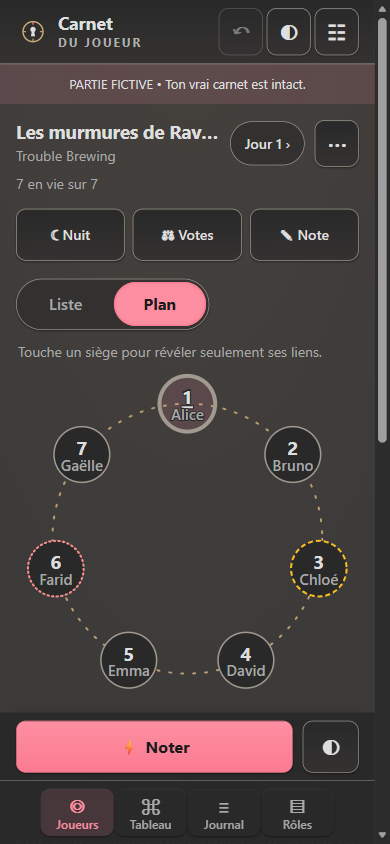
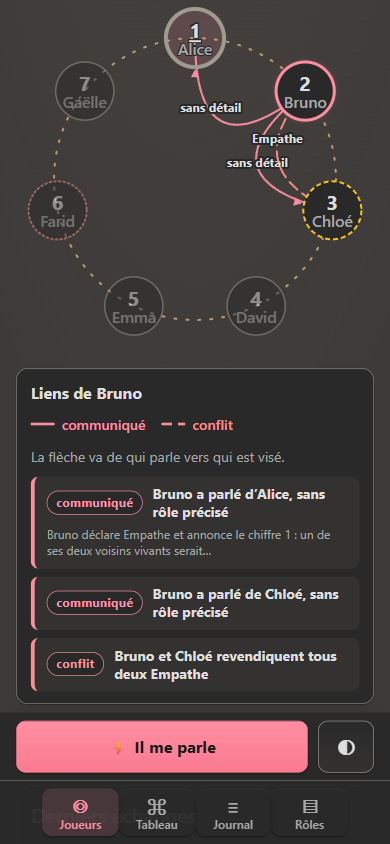
v2.5 : sections repliables visibles, accueil montrant l app, demo guidee, votes plus simples
Suite du retour de la testeuse. Mesure sur la 2.4 publiee.

- Toutes les sections repliables n avaient aucune fleche : summary{display:
  flex} supprimait le marqueur natif. 37 rencontrees, regle generale ajoutee.
  Trouver d autres scripts (v2.1) etait mon propre defaut.
- Accueil : vraie capture a la place du schema abstrait, slogans en capitales
  remplaces par trois phrases claires, hors ligne dit simplement. Captures du
  manifeste refaites, welcome-table.png ajoutee au cache hors ligne.
- Demo : trois pistes a essayer, verifiees de bout en bout (Conflits montre
  bien l Empathe de Bruno et Chloe). Rejeter l aide de la demo ne touche pas
  celle de la vraie partie.
- Votes : Resultat du vote, options sans vocabulaire administratif, paragraphe
  de regle 4 lignes -> 2, total annonce et votes fantomes dans Autres options.
  La case qui marque le joueur mort reste visible. Nomination au vocabulaire.
- Tableau et Journal : verifie sur un carnet reel que chaque note apparait
  dans les deux, donc memes enregistrements. Rien fusionne. Titre Mon carnet
  -> Journal (aligne sur l onglet) et une ligne dit a quoi sert chaque ecran.
- Quatre cadratins dans des textes visibles corriges.

202 tests natifs, 11 sondes navigateur vertes (browser-firstrun 37 -> 59).

diff --git a/js/app.js b/js/app.js
@@ -196,15 +196,15 @@ function renderWelcome() {
     <section class="hero">
       <div><div class="eyebrow">${tr('Blood on the Clocktower • Compagnon non officiel','Blood on the Clocktower • Unofficial companion')}</div>
       <h1>${tr('Tout le monde<br>a une version.','Everyone has<br>a story.')}<br><span style="color:var(--cp-accent)">${tr('Garde le fil.','Keep the thread.')}</span></h1>
-      <p>${tr('Les confidences, les indices, tes intuitions. Un carnet privé qui relie les pièces sans jouer à ta place.','Claims, clues, your hunches. A private notebook that connects the pieces without playing for you.')}</p>
+      <p>${tr('Pendant une partie, note vite ce que chaque joueur te dit et retrouve tout d’un coup d’œil. Un carnet privé, qui ne joue pas à ta place.','During a game, quickly note what each player tells you and find it all at a glance. A private notebook that does not play for you.')}</p>
       <div class="row">${button('new',tr('Ouvrir mon carnet','Start my notebook'),'primary')}${button('demo',tr('Explorer une démo','Explore a demo'))}${button('onboarding',tr('Comment ça marche','How it works'))}</div>
-      <p class="footer-note">${tr('Sans compte. Sans connexion au Conteur. Utilisable hors ligne après installation du cache.','No account. No connection to the Storyteller. Works offline once cached.')}</p></div>
-      <div class="hero-art" aria-hidden="true"><div class="hero-center"><strong>?</strong><span>${tr('plusieurs vérités<br>possibles','many possible<br>truths')}</span></div>${[[50,0,'A'],[93,25,'?'],[93,75,'B'],[50,100,'◇'],[7,75,'C'],[7,25,'!']].map(([x,y,t])=>`<span class="orbit" style="left:${x}%;top:${y}%">${t}</span>`).join('')}</div>
+      <p class="footer-note">${tr('Sans compte, sans connexion au Conteur. Une fois ouvert en ligne, il fonctionne aussi sans réseau.','No account, no connection to the Storyteller. Once opened online, it also works without a network.')}</p></div>
+      <figure class="hero-shot"><img src="./assets/welcome-table.png" width="390" height="560" alt="${tr('Aperçu du carnet : la liste de sept joueurs, avec pour chacun trois boutons nommés Parle, Rôle et Mort.','Preview of the notebook: a list of seven players, each with three buttons named Talks, Role and Dead.')}" decoding="async"></figure>
     </section>
     <div class="features">
-      <section class="card"><span class="feature-number">01 / ${tr('CAPTURER','CAPTURE')}</span><h2>${tr('Une confidence, trois gestes.','A claim, three taps.')}</h2><p class="muted">${tr('Un joueur, un rôle, enregistrer. Les déclarations multiples et les changements restent dans l’historique.','A player, a character, save. Multiple claims and changes stay in your history.')}</p></section>
-      <section class="card"><span class="feature-number">02 / ${tr('RECOUPER','CONNECT')}</span><h2>${tr('Séparer le dit du déduit.','Separate words from deductions.')}</h2><p class="muted">${tr('Ce qui a été annoncé n’est pas ce qui est vrai. Le tableau d’enquête relie tes notes entre elles, sans jamais conclure à ta place.','What was said is not necessarily true. The investigation board connects your notes without ever concluding for you.')}</p></section>
-      <section class="card"><span class="feature-number">03 / ${tr('SE SOUVENIR','REMEMBER')}</span><h2>${tr('Ce que toi tu as dit.','What you said yourself.')}</h2><p class="muted">${tr('Note tes propres annonces, à qui et quand, et garde les informations différées nuit après nuit. Le carnet ne joue pas à ta place et ne rend aucun verdict.','Record your own claims, to whom and when, and keep delayed information night after night. The notebook never plays for you and never rules on anything.')}</p></section>
+      <section class="card"><h2>${tr('Note ce qu’on te dit','Note what you are told')}</h2><p class="muted">${tr('Touche ⚡ sur un joueur et écris ses mots, même incomplets. Chaque rôle qu’il annonce est gardé, avec ses changements.','Tap ⚡ on a player and write their words, even incomplete. Every character they claim is kept, with its changes.')}</p></section>
+      <section class="card"><h2>${tr('Vois qui dit quoi','See who said what')}</h2><p class="muted">${tr('Le Tableau relie tes notes par joueur et par jour, et signale deux joueurs qui annoncent le même rôle. Ce qui est annoncé n’est pas forcément vrai : le carnet ne conclut jamais à ta place.','The Board links your notes by player and by day, and flags two players who claim the same character. What is claimed is not necessarily true: the notebook never concludes for you.')}</p></section>
+      <section class="card"><h2>${tr('Retiens ce que tu as dit toi-même','Remember what you said yourself')}</h2><p class="muted">${tr('Note tes propres annonces, à qui et quand, pour rester cohérent d’une nuit à l’autre.','Record your own claims, to whom and when, to stay consistent from one night to the next.')}</p></section>
     </div>
     <p class="footer-note">Sébastien Place / @sebplace • <a href="./guide.html">${tr('Guide et limites','Guide and limitations')}</a> • CC BY-NC-SA 4.0 • ${tr('À utiliser avec l’accord de la table.','Use with your table’s agreement.')}</p>`;
 }
@@ -289,7 +289,7 @@ function timeline(entries,mini=false) {
   return entries.map(e=>`<article class="timeline-item"><div class="row"><small>${esc(phaseName(e))} · ${tr(...labels[e.type])}</small>${!mini?button('delete-event','×','icon-button',`data-id="${e.id}" aria-label="${tr('Supprimer cette entrée','Delete this entry')}"`):''}</div><h3>${e.playerIds.length?esc(e.playerIds.map(pname).join(' / ')):esc(game.title)}</h3>${e.sourceId?`<small>${tr('Source','Source')} : ${esc(pname(e.sourceId))}</small>`:''}<p>${esc(e.text)}</p>${e.roleId?`<span class="chip">${esc(rname(e.roleId))}</span>`:''}${e.value&&e.type!=='claim'?` <span class="chip accent">${esc(e.value)}</span>`:''}${!mini?eventDetails(e):''}</article>`).join('');
 }
 function renderJournal() {
-  $('#main').innerHTML=`<div class="section-head"><div><h1>${tr('Mon carnet','My notebook')}</h1></div>${button('note',tr('＋ Note','＋ Note'),'primary')}</div>
+  $('#main').innerHTML=`<div class="section-head"><div><h1>${tr('Journal','Journal')}</h1><p class="muted page-lede">${tr('Tes notes dans l’ordre, à relire ou corriger.','Your notes in order, to reread or correct.')}</p></div>${button('note',tr('＋ Note','＋ Note'),'primary')}</div>
     <div class="filters">${['', 'claim','info','vote','execution','night','note'].map((v,i)=>button('journal-filter',[tr('Tout','All'),tr('Déclarations','Claims'),tr('Indices','Clues'),tr('Votes','Votes'),tr('Exécutions','Executions'),tr('Nuits','Nights'),tr('Notes','Notes')][i],noteType===v?'selected':'',`data-type="${v}"`)).join('')}</div>
     <label class="search">${tr('Rechercher dans le carnet','Search notebook')}<input id="note-search" type="search" value="${esc(noteSearch)}" placeholder="${tr('Joueur, rôle, mot-clé…','Player, character, keyword…')}"></label><div class="grid"><section class="card" aria-labelledby="journal-entries-title"><h2 id="journal-entries-title" class="sr-only">${tr('Toutes les entrées du carnet','All notebook entries')}</h2><div id="journal-entries"></div></section><aside class="card"><h2>${tr('Pistes à recouper','Threads to cross-check')}</h2>${issues()}<div class="notice">${tr('Deux personnes peuvent honnêtement croire au même rôle. Une contradiction suggère une question, pas un menteur certain.','Two people can honestly believe they are the same character. A contradiction suggests a question, not a proven liar.')}</div></aside></div>`;
   drawJournal();$('#note-search').oninput=e=>{noteSearch=e.target.value;drawJournal();};
@@ -302,7 +302,7 @@ function impactLabel(r) {
   return r.impact==='weight'?tr(`Poids subjectif ×${r.multiplier}`,`Subjective weight ×${r.multiplier}`):r.impact==='strict'?tr('Restriction choisie','Chosen restriction'):r.impact==='conditional'?tr('Filtre sous conditions','Conditional filter'):tr('Noté, non utilisé par le calcul','Recorded, not used by calculation');
 }
 function renderOverview() {
-  $('#main').innerHTML=`<div class="section-head"><div><h1>${tr('Le tableau','The board')}</h1></div></div>
+  $('#main').innerHTML=`<div class="section-head"><div><h1>${tr('Le tableau','The board')}</h1><p class="muted page-lede">${tr('Les mêmes notes, reliées entre elles.','The same notes, connected to each other.')}</p></div></div>
     
     <div id="board-root"></div>
     ${unlocked()?`<section class="card spaced"><h2>${tr('Ce que le calcul en déduit','What the calculation infers')}</h2><div id="overview-estimates" aria-live="polite">${predictionSummary()}</div></section>`:''}`;
@@ -671,7 +671,7 @@ function roundSummary() {
   const ghosts=game.players.filter(p=>!p.alive&&p.ghost);
   const threshold=Math.ceil(alive.length/2);
   return `<div class="stats"><div class="stat"><strong>${alive.length}</strong>${tr('en vie','alive')}</div><div class="stat"><strong>${ghosts.length}</strong>${tr('votes fantômes restants','ghost votes left')}</div><div class="stat"><strong>${threshold}</strong>${tr('voix, seuil usuel','usual threshold')}</div></div>
-    <p class="muted small">${tr('Seuil indicatif : la moitié de tous les joueurs vivants, Voyageurs compris, arrondie au supérieur. Les capacités spéciales et les annonces du Conteur peuvent le changer.','Indicative threshold: half of all living players, Travellers included, rounded up. Special abilities and Storyteller announcements can change it.')}</p>`;
+    <p class="muted small">${tr('Seuil indicatif : la moitié des joueurs vivants (Voyageurs compris), arrondie au supérieur. Le Conteur peut le modifier.','Indicative threshold: half of the living players (Travellers included), rounded up. The Storyteller can change it.')}</p>`;
 }
 function openEndgame() {
   const ordinary=normalPlayers();
@@ -788,6 +788,7 @@ function openGlossary() {
       [tr('Script','Script'),tr('La liste des rôles qui peuvent apparaître dans cette partie. Ce n’est pas la liste des rôles distribués.','The list of characters that may appear in this game. It is not the list of characters actually dealt.')],
       [tr('Déclaration','Claim'),tr('Un rôle annoncé par un joueur, tel que tu l’as noté. Le Journal les range sous ce nom.','A character announced by a player, as you noted it. The Journal files them under this name.')],
       [tr('Indice','Clue'),tr('Une information reçue : un chiffre, un nom, une phrase. Ce que tu notes avec ⚡ devient un indice, ou une déclaration si tu y ajoutes un rôle.','A piece of information received: a number, a name, a sentence. What you note with ⚡ becomes a clue, or a claim if you add a character.')],
+      [tr('Nomination','Nomination'),tr('Un joueur en désigne un autre pour le soumettre au vote. Le bouton Votes sert à noter qui a nommé qui.','A player picks another to put to a vote. The Votes button records who nominated whom.')],
       [tr('Exécution','Execution'),tr('Le vote de fin de journée qui peut éliminer un joueur. Le bouton Votes sert à le noter.','The end-of-day vote that can eliminate a player. The Votes button records it.')],
       [tr('Nuit','Night'),tr('Le bouton Nuit sert à noter les morts annoncées au matin.','The Night button records the deaths announced in the morning.')],
       [tr('Jour 1 ›','Day 1 ›'),tr('Le moment de la partie. Touche-le pour passer au jour ou à la nuit suivants.','The current moment of the game. Tap it to move to the next day or night.')]
@@ -801,8 +802,23 @@ function openGlossary() {
     ])}`);
 }
 function firstStepsSeen(){try{return localStorage.getItem('botc-player-first-steps')==='1';}catch{return true;}}
-// Aide posée sur la table elle-même, au lieu d'une fenetre qui decrit un ecran qu'on n'a pas encore vu.
+let demoHintHidden=false;
+// Dans la démo, l'aide propose quoi essayer plutôt que d'expliquer des boutons : le visiteur arrive
+// dans un carnet déjà rempli et ne sait pas par où commencer. Son rejet ne compte pas pour la vraie partie.
+function demoTryHtml(){
+  if(demoHintHidden)return '';
+  return `<section class="first-steps" aria-labelledby="first-steps-title">
+    <div class="first-steps-head"><h2 id="first-steps-title">${tr('À essayer dans cette partie fictive','Try this in the sample game')}</h2>${button('first-steps-done',tr('Compris','Got it'),'ghost')}</div>
+    <ul class="try-list">
+      <li>${tr('Touche la ligne de Bruno pour voir tout ce que tu sais de lui.','Tap Bruno’s row to see everything you know about them.')}</li>
+      <li>${tr('Ouvre « Tableau », puis « Analyses » et « Conflits » : Bruno et Chloé annoncent tous deux Empathe.','Open “Board”, then “Analysis” and “Conflicts”: Bruno and Chloé both claim Empath.')}</li>
+      <li>${tr('Touche « Plan », puis le siège de Bruno : ses liens apparaissent.','Tap “Plan”, then Bruno’s seat: their links appear.')}</li>
+    </ul>
+  </section>`;
+}
+// Aide posée sur la table elle-même, au lieu d'une fenêtre qui décrit un écran qu'on n'a pas encore vu.
 function firstStepsHtml(){
+  if(demo)return demoTryHtml();
   if(firstStepsSeen())return '';
   return `<section class="first-steps" aria-labelledby="first-steps-title">
     <div class="first-steps-head"><h2 id="first-steps-title">${tr('Premiers pas','First steps')}</h2>${button('first-steps-done',tr('J’ai compris','Got it'),'ghost')}</div>
@@ -837,12 +853,12 @@ function openMyNotes() {
     <h3>${tr('Ce que j’ai dit','What I said')}</h3>
     <div class="row">${button('self-add',tr('＋ J’ai dit quelque chose','＋ I said something'),'primary')}</div>
     ${game.selfLog.length?game.selfLog.slice().reverse().map(entry=>`<div class="issue"><small>${esc(phaseName(entry))} · ${entry.status==='public'?tr('public','public'):entry.status==='told'?tr('confié','told'):tr('gardé pour moi','kept')}</small><p><strong>${esc(audienceLabel(entry.audience))}</strong></p>${entry.roleIds.length?`<p>${tr('Rôle annoncé','Claimed character')} : ${esc(roleLabel(entry.roleIds))}</p>`:''}<p class="muted">${esc(entry.text)}</p>${button('self-delete',tr('Retirer','Remove'),'',`data-id="${entry.id}"`)}</div>`).join(''):`<p class="empty">${tr('Rien de noté. Dès que tu annonces un rôle ou donnes une info, note-le ici pour rester cohérent.','Nothing recorded. As soon as you claim a character or give information, note it here to stay consistent.')}</p>`}
-    ${Object.keys(known).length?`<details><summary>${tr('Qui sait quoi','Who knows what')}</summary>${Object.entries(known).map(([pid,items])=>`<p><strong>${esc(pname(pid))}</strong> : ${esc(items.map(i=>[roleLabel(i.roleIds||[]),i.text].filter(Boolean).join(' — ')).join(' · '))}</p>`).join('')}</details>`:''}
+    ${Object.keys(known).length?`<details><summary>${tr('Qui sait quoi','Who knows what')}</summary>${Object.entries(known).map(([pid,items])=>`<p><strong>${esc(pname(pid))}</strong> : ${esc(items.map(i=>[roleLabel(i.roleIds||[]),i.text].filter(Boolean).join(' : ')).join(' · '))}</p>`).join('')}</details>`:''}
     <h3>${tr('À retenir nuit après nuit','To remember night after night')}</h3>
     <p class="muted">${tr('Pour les rôles dont l’information arrive plus tard : Crieur public, Fleuriste, Érudit, Commère, Jongleur, Amnésique…','For characters whose information arrives later: Town Crier, Flowergirl, Savant, Gossip, Juggler, Amnesiac…')}</p>
     <div class="row">${button('retain-add',tr('＋ Noter une info à retenir','＋ Record something to remember'),'primary')}</div>
     ${series.length?series.map(s=>`<div class="issue"><strong>${esc(s.roleName||s.label||'')}</strong><p>${esc(s.series||s.text||'')}</p></div>`).join(''):''}
-    ${game.retained.length?game.retained.slice().reverse().map(r=>`<div class="issue"><small>${tr('Nuit','Night')} ${r.night}${r.roleId?' · '+esc(rname(r.roleId)):''}${r.shared?' · '+tr('partagée','shared'):''}</small><p>${esc([r.value,r.text].filter(Boolean).join(' — '))}</p>${button('retain-delete',tr('Retirer','Remove'),'',`data-id="${r.id}"`)}</div>`).join(''):`<p class="empty">${tr('Rien à retenir pour l’instant.','Nothing to remember yet.')}</p>`}`);
+    ${game.retained.length?game.retained.slice().reverse().map(r=>`<div class="issue"><small>${tr('Nuit','Night')} ${r.night}${r.roleId?' · '+esc(rname(r.roleId)):''}${r.shared?' · '+tr('partagée','shared'):''}</small><p>${esc([r.value,r.text].filter(Boolean).join(' : '))}</p>${button('retain-delete',tr('Retirer','Remove'),'',`data-id="${r.id}"`)}</div>`).join(''):`<p class="empty">${tr('Rien à retenir pour l’instant.','Nothing to remember yet.')}</p>`}`);
 }
 function openSelfEntry() {
   open(tr('J’ai dit quelque chose','I said something'),`<form id="self-form">
@@ -934,16 +950,17 @@ function openRound(target='',existing=null,defaultOutcome='unknown') {
     ${roundSummary()}
     <div class="form-grid"><label>${tr('Jour n°','Day number')}<input name="day" type="number" min="1" max="99" value="${existing?.day||game.day}" required></label><label>${tr('Qui a nommé ?','Who nominated?')}<select name="source">${playerOptions(existing?.sourceId||'')}</select></label></div>
     <label>${tr('Personne nommée / exécutée','Nominated / executed player')}<select name="target">${playerOptions(existing?.playerIds[0]||target)}</select></label>
-    <label>${tr('Issue observée','Observed outcome')}<select name="outcome">${[['none','Pas d’exécution, vote seulement','No execution, vote only'],['unknown','Exécution, décès non confirmé','Execution, death unconfirmed'],['survived','Exécuté mais a survécu','Executed but survived'],['died','Exécuté et décès constaté','Executed and observed dead']].map(([value,fr,en])=>`<option value="${value}" ${(existing?(existing.type==='execution'?existing.outcome:'none'):defaultOutcome)===value?'selected':''}>${tr(fr,en)}</option>`).join('')}</select></label>
+    <label>${tr('Résultat du vote','Vote result')}<select name="outcome">${[['none','Pas d’exécution, vote seulement','No execution, vote only'],['unknown','Exécuté, mort pas encore confirmée','Executed, death not yet confirmed'],['survived','Exécuté mais toujours en vie','Executed but still alive'],['died','Exécuté et mort constatée','Executed and observed dead']].map(([value,fr,en])=>`<option value="${value}" ${(existing?(existing.type==='execution'?existing.outcome:'none'):defaultOutcome)===value?'selected':''}>${tr(fr,en)}</option>`).join('')}</select></label>
     <div class="ballot-quick" role="group" aria-label="${tr('Pointage rapide des mains levées','Quick tally of raised hands')}"><p class="muted small">${tr('Un tap par main levée. Le reste est facultatif.','One tap per raised hand. The rest is optional.')}</p><div class="ballot-chips">${ballotPlayers.filter(p=>p.alive||existing?.ballot?.some(v=>v.playerId===p.id)).map(p=>{const v=existing?.ballot?.find(v=>v.playerId===p.id);return `<button type="button" class="ballot-chip" data-quickvote="${p.id}" aria-pressed="${v?.choice==='yes'}">${esc(p.name)}${p.alive?'':' ◇'}</button>`;}).join('')}</div><p id="ballot-summary" class="notice" role="status"></p></div>
     <details><summary>${tr('Détail des votes (facultatif)','Vote detail (optional)')}</summary><p class="muted">${tr('? signifie non noté, pas non. Indique les voix spéciales si elles sont connues.','? means not recorded, not no. Enter special vote weights if known.')}</p>
     <div class="row ballot-bulk">${button('ballot-all',tr('Tous « non »','All "no"'),'','data-choice="no"')}${button('ballot-all',tr('Tous « ? »','All "?"'),'','data-choice="unknown"')}</div>
     <div class="ballot-list">${ballotPlayers.map(p=>{const v=existing?.ballot?.find(v=>v.playerId===p.id);const choice=v?.choice||'unknown';const weight=v?.choice==='yes'?v.weight:1;return `<div class="ballot-row" data-voter="${p.id}" data-choice="${choice}" data-weight="${weight}"><span>${esc(p.name)}</span><div class="ballot-choice" role="group" aria-label="${esc(tr('Vote de ','Vote by ')+p.name)}">${[['yes',tr('Oui','Yes')],['no',tr('Non','No')],['unknown','?']].map(([value,label])=>`<button type="button" data-vote="${value}" aria-pressed="${choice===value}">${label}</button>`).join('')}</div><input data-voteweight type="number" min="-9" max="9" value="${weight}" aria-label="${esc(tr('Voix de ','Vote weight for ')+p.name)}" ${choice==='yes'?'':'hidden'}></div>`;}).join('')}</div></details>
-    <label>${tr('Total annoncé par le Conteur (facultatif)','Total announced by Storyteller (optional)')}<input name="value" type="number" min="-999" max="999" value="${esc(existing?.value||'')}"></label>
-    <label class="check"><input name="applyState" type="checkbox" ${existing?'':'checked'}>${tr('Si le décès est confirmé, marquer cette personne morte maintenant','If death is confirmed, mark this player dead now')}</label>
-    <label class="check"><input name="applyGhost" type="checkbox">${tr('Reporter les votes des morts comme votes fantômes utilisés','Mark votes by currently dead players as used ghost votes')}</label>
+    <label class="check"><input name="applyState" type="checkbox" ${existing?'':'checked'}>${tr('Si la mort est confirmée, marquer cette personne morte maintenant','If death is confirmed, mark this player dead now')}</label>
     <label>${tr('Note','Note')}<textarea name="text" maxlength="4000">${esc(existing?.text||'')}</textarea></label>
-    <p class="muted">${tr('Une correction du relevé ne ressuscite personne et ne rend aucun vote automatiquement. Les états actuels se corrigent dans les fiches. Les votes ne prouvent pas l’alignement.','Editing the record does not automatically revive anyone or restore votes. Edit current states in player cards. Votes do not prove alignment.')}</p>
+    <details ${existing?.value?'open':''}><summary>${tr('Autres options','More options')}</summary>
+    <label>${tr('Total annoncé par le Conteur (facultatif)','Total announced by Storyteller (optional)')}<input name="value" type="number" min="-999" max="999" value="${esc(existing?.value||'')}"></label>
+    <label class="check"><input name="applyGhost" type="checkbox">${tr('Reporter les votes des morts comme votes fantômes utilisés','Mark votes by currently dead players as used ghost votes')}</label>
+    <p class="muted">${tr('Corriger ce relevé ne ressuscite personne et ne rend aucun vote automatiquement. Les états actuels se corrigent dans les fiches. Les votes ne prouvent pas l’alignement.','Editing the record does not automatically revive anyone or restore votes. Edit current states in player cards. Votes do not prove alignment.')}</p></details>
     <div class="dialog-footer"><button type="submit" class="primary">${tr('Enregistrer le relevé','Save record')}</button></div></form>`,d=>{
       const readBallot=()=>$$('[data-voter]',d).map(row=>{const choice=row.dataset.choice;return{playerId:row.dataset.voter,choice,weight:choice==='unknown'?null:choice==='no'?0:Number(row.dataset.weight||1)};});
       const paint=row=>{
@@ -1113,7 +1130,7 @@ function openSettings() {
     <h3>${tr('Sur cet appareil','On this device')}</h3><div class="quick-actions">${game?button('export',tr('Exporter mon carnet privé (.json)','Export my private notebook (.json)')):''}${button('restore',tr('Restaurer un carnet (.json)','Restore a notebook (.json)'))}${button('backup',tr('Copies de secours et stockage','Backups and storage'))}${button('new',tr('Nouvelle partie','New game'))}${demo?button('leave-demo',tr('Quitter la démo','Leave demo')):button('demo',tr('Ouvrir la démo sans toucher au carnet','Open demo without touching notebook'))}</div>
     <h3>${tr('Installation et hors-ligne','Install and offline')}</h3><p id="offline-status" class="muted">${offlineText()}</p>${deferredInstall?button('install',tr('Installer l’application','Install app'),'primary'):''}${updateReady?button('apply-update',tr('Mettre à jour maintenant','Update now'),'primary'):''}${button('force-update',tr('Forcer la mise à jour (vider le cache)','Force update (clear cache)'))}<p class="muted">${tr('Sur iPhone : Safari → Partager → Sur l’écran d’accueil. Sur ordinateur / Android : menu du navigateur → Installer. Une première ouverture connectée est nécessaire.','On iPhone: Safari → Share → Add to Home Screen. Desktop / Android: browser menu → Install. A first online visit is required.')}</p>
     <p class="notice">${tr('Aucune donnée envoyée au Conteur ni à un service IA. Le stockage navigateur n’est pas chiffré par l’application ; le rideau masque l’écran mais ne verrouille pas l’appareil. Un export contient tes notes secrètes.','No data is sent to the Storyteller or an AI service. Browser storage is not encrypted by the app; the cover hides the screen but does not lock the device. Exports contain your secret notes.')}</p>
-    <p><a href="./guide.html" target="_blank" rel="noopener">${tr('Guide d’utilisation et limites','User guide and limitations')}</a></p><p class="footer-note"><span id="app-version">Carnet du Joueur 2.4</span> • Sébastien Place / @sebplace<br>CC BY-NC-SA 4.0 · ${tr('Indépendant de The Pandemonium Institute.','Independent of The Pandemonium Institute.')}</p>`,d=>{
+    <p><a href="./guide.html" target="_blank" rel="noopener">${tr('Guide d’utilisation et limites','User guide and limitations')}</a></p><p class="footer-note"><span id="app-version">Carnet du Joueur 2.5</span> • Sébastien Place / @sebplace<br>CC BY-NC-SA 4.0 · ${tr('Indépendant de The Pandemonium Institute.','Independent of The Pandemonium Institute.')}</p>`,d=>{
     $('#language',d).onchange=e=>{lang=e.target.value;savePrefs();render();openSettings();};
     $('#theme',d).onchange=e=>{document.documentElement.dataset.theme=e.target.value;savePrefs();};
     $('#enrichment',d)?.addEventListener('change',e=>{try{change(g=>{g.settings.claimRoleEnrichment=e.target.checked;});}catch(err){error(err.message);}});
@@ -1204,7 +1221,7 @@ const actions={
   roster:openRoster,coverage:openCoverage,
   mask:()=>cover(true),express:el=>openExpress(el.dataset.id||''),
   mynotes:openMyNotes,'self-add':openSelfEntry,'retain-add':openRetainEntry,endgame:openEndgame,'table-card':openTableCard,onboarding:openOnboarding,glossary:openGlossary,
-  'first-steps-done':el=>{try{localStorage.setItem('botc-player-first-steps','1');}catch{}el.closest('.first-steps')?.remove();$('#main')?.focus({preventScroll:true});},
+  'first-steps-done':el=>{if(demo)demoHintHidden=true;else{try{localStorage.setItem('botc-player-first-steps','1');}catch{}}el.closest('.first-steps')?.remove();$('#main')?.focus({preventScroll:true});},
   'self-delete':el=>change(g=>{g.selfLog=g.selfLog.filter(x=>x.id!==el.dataset.id);})||openMyNotes(),
   'retain-delete':el=>change(g=>{g.retained=g.retained.filter(x=>x.id!==el.dataset.id);})||openMyNotes(),
   'print-sheet':openPrintSheet,
@@ -1235,7 +1252,7 @@ const actions={
   export:()=>{download(`carnet-joueur-${game.id.slice(0,8)}.json`,JSON.stringify(validateGame(game),null,2));toast(tr('Export privé téléchargé','Private export downloaded'));},
   restore:openRestore,backup:openBackups,'apply-update':applyUpdate,
   'force-update':()=>confirmAction(tr('Forcer la mise à jour ?','Force update?'),tr('Le cache hors-ligne sera vidé et la page rechargée. Tes carnets enregistrés ne sont pas touchés. Il faudra être connecté une fois pour reconstruire le cache.','The offline cache is cleared and the page reloads. Your saved notebooks are untouched. You will need to be online once to rebuild the cache.'),forceUpdate),
-  'restore-backup':el=>{const b=store.backup(Number(el.dataset.slot));confirmAction(tr('Reprendre cette copie ?','Restore this copy?'),tr(`${b.title} — la partie actuelle sera remplacée et sauvegardée à son tour.`,`${b.title} — the current game will be replaced and backed up in turn.`),()=>replaceGame(b));},
+  'restore-backup':el=>{const b=store.backup(Number(el.dataset.slot));confirmAction(tr('Reprendre cette copie ?','Restore this copy?'),tr(`${b.title} : la partie actuelle sera remplacée et sauvegardée à son tour.`,`${b.title}: the current game will be replaced and backed up in turn.`),()=>replaceGame(b));},
   'leave-demo':()=>{const saved=store.load();demo=false;game=saved;history.clear();invalidate();close();render();},
   install:async()=>{if(!deferredInstall)return;await deferredInstall.prompt();deferredInstall=null;openSettings();}
 };

diff --git a/tests/browser-firstrun.js b/tests/browser-firstrun.js
@@ -121,6 +121,96 @@ async (page) => {
       check(await p.evaluate(() => document.documentElement.scrollWidth <= innerWidth), `la table tient en ${w}px avec ses colonnes nommees`);
     }
     check(errors.length === 0, 'aucune erreur navigateur: ' + errors.join(' | '));
+
+    // ================= Deuxieme passe : accueil, demo, votes, ecrans, fleches =================
+    const c2 = await page.context().browser().newContext({viewport: {width: 390, height: 844}});
+    const q = await c2.newPage();
+    q.on('pageerror', e => errors.push(e.message));
+    try {
+      await q.goto(base + '?p2=' + Date.now(), {waitUntil: 'networkidle'});
+      await q.evaluate(async () => { for (const r of await navigator.serviceWorker.getRegistrations()) await r.unregister(); for (const k of await caches.keys()) await caches.delete(k); localStorage.clear(); });
+      await q.goto(base + '?p3=' + Date.now(), {waitUntil: 'networkidle'});
+      await q.waitForTimeout(400);
+
+      // --- D. L accueil montre l application et parle simplement ---
+      const accueil = await q.evaluate(() => {
+        const img = document.querySelector('.hero-shot img');
+        return {texte: document.querySelector('#main').innerText, image: img ? img.complete && img.naturalWidth > 0 : false, alt: img ? img.alt : ''};
+      });
+      check(accueil.image, 'l accueil montre une vraie capture de l application');
+      check(accueil.alt.length > 40, 'cette capture est decrite pour les lecteurs d ecran');
+      check(!/installation du cache|relie les pièces|dit du déduit|CAPTURER|RECOUPER|SE SOUVENIR/.test(accueil.texte), 'le jargon et les slogans abstraits de l ancien accueil ont disparu');
+      check(/fonctionne aussi sans réseau/.test(accueil.texte), 'le hors ligne est dit en mots simples');
+      check(!BLOCKLIST.test(accueil.texte), 'l accueil ne trahit pas l outil prive');
+      check(!/\u2014/.test(accueil.texte), 'aucun tiret cadratin sur l accueil');
+
+      // --- E. La demo propose quoi essayer ---
+      await q.locator('[data-action=demo]').first().click();
+      await q.locator('.player-card').first().waitFor();
+      const cl2 = q.locator('#dialog .dialog-head [data-action=close]');
+      if (await cl2.count() && await cl2.first().isVisible()) await cl2.first().click();
+      check(await q.locator('.try-list li').count() === 3, 'la demo propose trois pistes a essayer');
+      check(/Bruno/.test(await q.locator('.try-list').innerText()) && /Conflits/.test(await q.locator('.try-list').innerText()), 'les pistes citent des elements reels de la demo');
+      await q.locator('[data-action=first-steps-done]').click();
+      check((await q.evaluate(() => localStorage.getItem('botc-player-first-steps'))) === null, 'rejeter l aide de la demo ne la rejette pas pour la vraie partie');
+
+      // --- Piste verifiee : la lentille Conflits montre bien l Empathe en double ---
+      await q.locator('#nav [data-view=overview]').click();
+      await q.waitForTimeout(300);
+      await q.locator('[data-board-analytic]').selectOption('conflits');
+      await q.waitForTimeout(300);
+      const conflits = await q.locator('#board-root').innerText();
+      check(/Bruno/.test(conflits) && /Chloé/.test(conflits) && /Empathe/.test(conflits), 'la piste de la demo mene vraiment au conflit annonce');
+
+      // --- C. Tableau et Journal disent a quoi ils servent ---
+      check(/mêmes notes/.test(await q.locator('#main .page-lede').innerText()), 'le Tableau dit qu il montre les memes notes, reliees');
+      await q.locator('#nav [data-view=journal]').click();
+      await q.waitForTimeout(300);
+      check((await q.locator('#main h1').innerText()) === 'Journal', 'le titre du Journal reprend le nom de son onglet');
+      check(/dans l’ordre/.test(await q.locator('#main .page-lede').innerText()), 'le Journal dit qu il garde les notes dans l ordre');
+
+      // --- B. La fenetre des votes parle simplement ---
+      await q.locator('#nav [data-view=table]').click();
+      await q.locator('main [data-action=round]').click();
+      await q.waitForTimeout(300);
+      const votes = await q.evaluate(() => {
+        const d = document.querySelector('#dialog');
+        const sommaires = [...d.querySelectorAll('summary')].map(s => s.textContent.trim());
+        const autres = [...d.querySelectorAll('details')].find(x => /Autres options/.test(x.textContent));
+        return {texte: d.innerText, sommaires, totalRange: !!(autres && autres.querySelector('[name=value]')), ghostRange: !!(autres && autres.querySelector('[name=applyGhost]')),
+                etatVisible: (() => { const e = d.querySelector('[name=applyState]'); return !!e && e.closest('details') === null; })()};
+      });
+      check(!/Issue observée|décès constaté|non confirmé/.test(votes.texte), 'le vocabulaire administratif de la fenetre des votes a disparu');
+      check(/Résultat du vote/.test(votes.texte), 'le resultat du vote porte un nom courant');
+      check(/seuil usuel/.test(votes.texte), 'le seuil reste affiche');
+      check(votes.sommaires.some(s => /Autres options/.test(s)), 'les champs secondaires sont regroupes derriere Autres options');
+      check(votes.totalRange && votes.ghostRange, 'le total annonce et les votes fantomes y sont');
+      check(votes.etatVisible, 'mais la case qui marque le joueur mort reste visible');
+      await q.locator('#dialog .dialog-head [data-action=close]').click();
+
+      // --- A. Plus aucune section repliable sans fleche ---
+      const sansFleche = [];
+      const examine = async (nom) => {
+        await q.waitForTimeout(250);
+        const r = await q.evaluate(() => [...document.querySelectorAll('summary')].filter(s => s.getBoundingClientRect().height > 0).filter(s => { const a = getComputedStyle(s, '::after'); return !(a.content !== 'none' && a.content !== 'normal' && parseFloat(a.width) > 0); }).map(s => s.textContent.trim().slice(0, 40)));
+        r.forEach(t => sansFleche.push(nom + ' : ' + t));
+      };
+      const ferme = async () => { const b = q.locator('#dialog .dialog-head [data-action=close]'); if (await b.count() && await b.first().isVisible()) await b.first().click(); await q.waitForTimeout(200); };
+      for (const [sel, nom] of [['.thumb-main', 'Il me parle'], ['main [data-action=round]', 'Votes'], ['main [data-action=note]', 'Note libre'], ['.player-card .player-open', 'Fiche joueur'], ['.player-card [data-action=claim]', 'Role annonce']]) {
+        await q.locator(sel).first().click(); await examine(nom); await ferme();
+      }
+      await q.locator('#nav [data-view=script]').click(); await examine('Roles');
+      check(sansFleche.length === 0, 'chaque section repliable porte une fleche' + (sansFleche.length ? ' (manque: ' + sansFleche.join(' ; ') + ')' : ''));
+
+      // --- Le glossaire definit la nomination ---
+      await q.locator('#nav [data-view=table]').click();
+      await q.locator('main [data-action=table-menu]').first().click();
+      await q.locator('#dialog [data-action=glossary]').click();
+      await q.waitForTimeout(250);
+      check((await q.locator('#dialog dt').allInnerTexts()).some(t => /Nomination/.test(t)), 'le vocabulaire definit la nomination');
+    } finally { await c2.close(); }
+
+    check(errors.length === 0, 'aucune erreur navigateur sur la deuxieme passe: ' + errors.join(' | '));
     return {checks: checks.length, passed: checks, errors};
   } finally { await c.close(); }
 }

diff --git a/style.css b/style.css
@@ -146,15 +146,12 @@ body:has(#nav:not([hidden])) #main{padding-bottom:calc(var(--dock-h) + 16px)}
 .hero h1{font-size:clamp(2.7rem,6vw,4.6rem);line-height:1.02}
 .hero p{font-size:1.08rem;color:var(--cp-text-soft);max-width:520px;margin:24px 0}
 .hero .row{margin-top:28px}
-.hero-art{aspect-ratio:1;border:1px solid var(--cp-border-strong);border-radius:50%;position:relative;background:radial-gradient(circle,var(--cp-highlight),var(--cp-surface));display:grid;place-items:center;margin:20px}
-.hero-art::before{content:"";position:absolute;inset:15%;border:1px dashed var(--cp-border-strong);border-radius:50%}
-.hero-art::after{content:"";position:absolute;inset:31%;border:1px solid var(--cp-accent);border-radius:50%}
-.hero-center{text-align:center;z-index:1;line-height:1.1}
-.hero-center strong{display:block;font-size:3.4rem;font-weight:300;color:var(--cp-accent)}
-.orbit{position:absolute;width:64px;height:64px;border:1px solid var(--cp-border-strong);background:var(--cp-surface);border-radius:16px;display:grid;place-items:center;font-size:1.6rem;transform:translate(-50%,-50%) rotate(-6deg)}
+/* vraie capture de l'application à la place du schéma abstrait : on montre ce que c'est au lieu de le suggérer. Cadre de téléphone sobre, fondu en bas puisque l'image est une coupe de l'écran */
+.hero-shot{margin:0;justify-self:center;width:min(100%,300px);border:1px solid var(--cp-border-strong);border-radius:24px;overflow:hidden;background:var(--cp-surface);box-shadow:var(--cp-shadow-soft);-webkit-mask-image:linear-gradient(#000 82%,transparent);mask-image:linear-gradient(#000 82%,transparent)}
+.hero-shot img{display:block;width:100%;height:auto}
 .features{display:grid;grid-template-columns:repeat(3,1fr);gap:16px;margin:24px 0}
 .features .card{padding:22px}
-.feature-number{font-size:.75rem;color:var(--cp-accent);display:block;margin-bottom:16px}
+.features h2{margin:0 0 8px;font-size:var(--fs-lg)}
 .bottom-nav{position:fixed;bottom:0;left:0;right:0;height:calc(var(--nav-h) + var(--safe-b));background:var(--cp-panel-strong);border-top:1px solid var(--cp-border);z-index:20;display:flex;justify-content:center;padding:8px 12px max(8px,var(--safe-b));gap:8px}
 .bottom-nav button{border:0;background:none;min-width:110px;font-size:.75rem;display:grid;gap:2px;padding:6px 20px;color:var(--cp-text-muted)}
 .bottom-nav button .nav-icon{font-size:1.3rem;line-height:1.1}
@@ -289,7 +286,12 @@ dialog::backdrop{background:var(--cp-overlay);-webkit-backdrop-filter:blur(2px);
 .count-grid label{font-size:var(--fs-micro)}
 .count-grid input{padding:8px}
 details{border-top:1px solid var(--cp-border);padding:12px 0}
-summary{cursor:pointer;min-height:44px;display:flex;align-items:center;font-weight:600}
+summary{cursor:pointer;min-height:44px;display:flex;align-items:center;gap:10px;font-weight:600;list-style:none}
+summary::-webkit-details-marker{display:none}
+/* display:flex supprime le marqueur natif : sans cette flèche, une section repliable ressemble à un titre fixe et personne ne l'ouvre. Règle générale plutôt qu'un correctif par écran, pour qu'une future section repliable soit lisible d'office */
+summary::after{content:'';flex:0 0 auto;margin-left:auto;width:7px;height:7px;border-right:2px solid var(--cp-text-muted);border-bottom:2px solid var(--cp-text-muted);transform:translateY(-2px) rotate(45deg);transition:transform .15s}
+details[open]>summary::after{transform:translateY(1px) rotate(225deg)}
+@media(prefers-reduced-motion:reduce){summary::after{transition:none}}
 .domain-row{display:flex;align-items:center;gap:12px;padding:12px 0;border-bottom:1px solid var(--cp-border)}
 .domain-row .grow{flex:1;min-width:0}
 .domain-row .muted{font-size:.8rem}
@@ -407,12 +409,15 @@ body:has(#nav[hidden]) .app-footer-bar{display:none}
 .first-steps-head{display:flex;align-items:center;justify-content:space-between;gap:8px}
 .first-steps h2{margin:0;font-size:var(--fs-body)}
 .first-steps p{margin:0 0 10px;font-size:var(--fs-caption)}
+.try-list{margin:6px 0 0;padding-left:20px;font-size:var(--fs-caption)}
+.try-list li{margin:0 0 6px}
 .first-steps .row{margin-top:0}
 /* vocabulaire : terme en gras, définition en retrait, sans tableau ni carte par entrée */
 .glossary{margin:0 0 8px}
 .glossary dt{font-weight:700;margin-top:12px}
 .glossary dd{margin:2px 0 0;color:var(--cp-text-soft);font-size:var(--fs-caption);line-height:1.5}
 .glossary-title{margin:20px 0 4px;font-size:var(--fs-body)}
+.page-lede{margin:2px 0 0;font-size:var(--fs-caption)}
 .glossary-title:first-child{margin-top:0}
 .guide section{margin:32px 0}
 /* — mouvement discret : une seule fois, jamais en boucle ; neutralisé par prefers-reduced-motion — */
@@ -424,7 +429,7 @@ dialog[open]{animation:cp-rise .16s ease-out}
 @media(min-width:1000px){.table-aside{position:sticky;top:24px}}
 @media(max-width:760px){
   .app-header{height:64px;padding:10px 16px}.brand{font-size:1.1rem;gap:8px}.brand-seal{width:34px;height:34px}.header-actions{gap:4px}.status{display:none}
-  main{padding:16px 16px 24px}.hero{grid-template-columns:1fr;gap:0;padding:16px 0}.hero-art{max-width:300px;width:80%;margin:32px auto}.hero p{margin:20px 0}.hero h1{font-size:3rem}
+  main{padding:16px 16px 24px}.hero{grid-template-columns:1fr;gap:0;padding:16px 0}.hero-shot{width:min(80%,280px);margin:24px auto}.hero p{margin:20px 0}.hero h1{font-size:3rem}
   .features{grid-template-columns:1fr}.table-layout{grid-template-columns:minmax(0,1fr);gap:12px}
   .table-aside .card{padding:14px}
   .section-head{gap:12px;margin-bottom:20px}.section-head h1{font-size:1.65rem}

diff --git a/sw.js b/sw.js
@@ -1,5 +1,5 @@
-const CACHE='botc-player-shell-v18';
-const ASSETS=['./','./index.html','./style.css','./css/board.css','./icon.svg','./logo.svg','./icon-192.png','./icon-512.png','./icon-maskable.png','./manifest.webmanifest','./guide.html','./404.html','./data/catalogue.json','./js/state.js','./js/catalogue.js','./js/app.js','./js/inference.js','./js/inference-worker.js','./js/evidence.js','./js/probability.js','./js/roster.js','./js/investigation.js','./js/rules-coverage.js','./js/board.js','./js/mynotes.js','./js/print.js','./js/plan.js','./js/history.js','./js/estimator-client.js'];
+const CACHE='botc-player-shell-v19';
+const ASSETS=['./','./index.html','./style.css','./css/board.css','./icon.svg','./logo.svg','./icon-192.png','./icon-512.png','./icon-maskable.png','./assets/welcome-table.png','./manifest.webmanifest','./guide.html','./404.html','./data/catalogue.json','./js/state.js','./js/catalogue.js','./js/app.js','./js/inference.js','./js/inference-worker.js','./js/evidence.js','./js/probability.js','./js/roster.js','./js/investigation.js','./js/rules-coverage.js','./js/board.js','./js/mynotes.js','./js/print.js','./js/plan.js','./js/history.js','./js/estimator-client.js'];
 self.addEventListener('install',event=>{
   event.waitUntil(caches.open(CACHE).then(cache=>cache.addAll(ASSETS)));
 });

diff --git a/js/board.js b/js/board.js
@@ -679,7 +679,7 @@ function renderContradictions(model) {
     if (entry.type === 'engine') return `<li><strong>${escapeHtml(t('engineConflict', lang))}</strong><p>${escapeHtml(entry.message)}</p><small>${escapeHtml(t('conflictCaution', lang))}</small></li>`;
     const players = (entry.players || []).map(p => `#${p.seat} ${p.name}`).join(' / ');
     const capacity = entry.type === 'over-claimed' ? ` (${escapeHtml(t('capacity', lang))}: ${escapeHtml(String(entry.capacity))})` : '';
-    return `<li><strong>${escapeHtml(entry.roleName)}${capacity}</strong><p>${escapeHtml(players)} — ${escapeHtml(entry.message)}</p><small>${escapeHtml(t('conflictCaution', lang))}</small></li>`;
+    return `<li><strong>${escapeHtml(entry.roleName)}${capacity}</strong><p>${escapeHtml(players)} : ${escapeHtml(entry.message)}</p><small>${escapeHtml(t('conflictCaution', lang))}</small></li>`;
   };
   return `<section class="board-panel board-conflicts" aria-label="${attr(t('conflits', lang))}"><p class="muted">${escapeHtml(t('conflictsHelp', lang))}</p>${entries.length ? `<ul>${entries.map(item).join('')}</ul>` : `<p class="empty">${escapeHtml(t('noContradictions', lang))}</p>`}</section>`;
 }

diff --git a/tests/browser-evidence.js b/tests/browser-evidence.js
@@ -61,6 +61,7 @@ async(page)=>{
     await voters.nth(0).locator('[data-vote=yes]').click();
     await voters.nth(0).locator('[data-voteweight]').fill('3');await voters.nth(0).locator('[data-voteweight]').dispatchEvent('input');
     await voters.nth(1).locator('[data-vote=no]').click();
+    await p.locator('#round-form details summary').nth(1).click();
     await p.locator('[name=value]').fill('5');
     await p.locator('[name=applyState]').uncheck();
     await p.locator('#round-form button[type=submit]').click();

diff --git a/CHANGELOG.md b/CHANGELOG.md
@@ -2,6 +2,62 @@
 
 All notable changes to Carnet du Joueur are recorded here.
 
+## 2.5.0
+
+Suite du retour d'une testeuse (« pas tres intuitive au premier abord »). La 2.4
+avait nomme les icones et pose une aide sur la table. Cette version traite ce
+que la 2.4 avait laisse de cote, mesure sur l'application publiee.
+
+### Les sections repliables se voient
+- Toutes les sections repliables de l'application n'avaient aucune fleche : la
+  regle `summary{display:flex}` supprimait le marqueur natif, donc elles
+  ressemblaient a des titres fixes. Dans « Il me parle », le champ pour annoncer
+  un role etait cache derriere ce qui avait l'air de simple texte.
+- Une fleche est maintenant dessinee par une regle generale, pas par ecran. Les
+  37 sections rencontrees (formulaires, fiche joueur, reglages, vue Roles) en
+  portent une, y compris « Trouver d'autres scripts », ajoutee en 2.1 sans
+  fleche : c'etait mon propre defaut.
+
+### L'accueil montre l'application
+- Le schema abstrait (« ? A B C ! ») est remplace par une vraie capture de la
+  liste des joueurs. Les trois slogans numerotes en capitales (« Separer le dit
+  du deduit », « 01 / CAPTURER »…) deviennent trois phrases qui disent ce qu'on
+  fait : noter ce qu'on te dit, voir qui dit quoi, retenir ce qu'on a dit soi-meme.
+- « Utilisable hors ligne apres installation du cache » devient « Une fois ouvert
+  en ligne, il fonctionne aussi sans reseau ».
+- Les captures du manifeste, qui montraient l'ancienne interface, sont refaites.
+
+### La demo dit par ou commencer
+- L'aide de la demo propose trois choses a essayer, tirees de ce qu'elle
+  contient vraiment : ouvrir la ligne de Bruno, trouver le conflit « Empathe »
+  de Bruno et Chloe dans Tableau puis Analyses puis Conflits, et regarder ses
+  liens dans le Plan. La piste a ete verifiee de bout en bout. La fermer ne
+  ferme pas l'aide de la vraie partie.
+
+### La fenetre des votes parle plus simplement
+- « Issue observee » devient « Resultat du vote », et les options perdent leur
+  vocabulaire administratif (« deces constate », « non confirme »).
+- Le paragraphe de regle qui precedait le premier champ passe de quatre lignes a
+  deux. Le total annonce et les votes fantomes rejoignent « Autres options » ;
+  la case qui marque le joueur mort reste visible, puisqu'elle change l'etat de
+  la partie.
+- Le vocabulaire definit « Nomination ».
+
+### Tableau et Journal disent a quoi ils servent
+- Verification faite sur un carnet reel (indice, declaration, note libre, mort) :
+  chaque note apparait dans les deux ecrans. Ce sont les memes enregistrements,
+  presentes differemment. Rien n'est fusionne.
+- Le Journal portait le titre « Mon carnet » sous l'onglet « Journal » : il
+  s'appelle maintenant « Journal ». Chaque ecran dit en une ligne ce qu'il est :
+  « Tes notes dans l'ordre, a relire ou corriger » et « Les memes notes, reliees
+  entre elles ».
+
+### Typographie
+- Les deux phrases visibles qui contenaient un tiret cadratin sont corrigees, ainsi
+  que deux separateurs dans « Ce que moi j'ai annonce ».
+
+La sonde tests/browser-firstrun.js passe de 37 a 59 controles.
+
 ## 2.4.0
 
 Retour d'un joueur du groupe qui a teste l'application avec Trouble Brewing :
